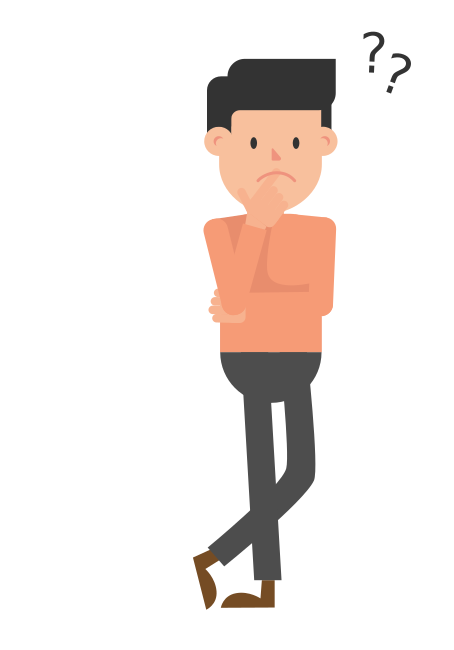
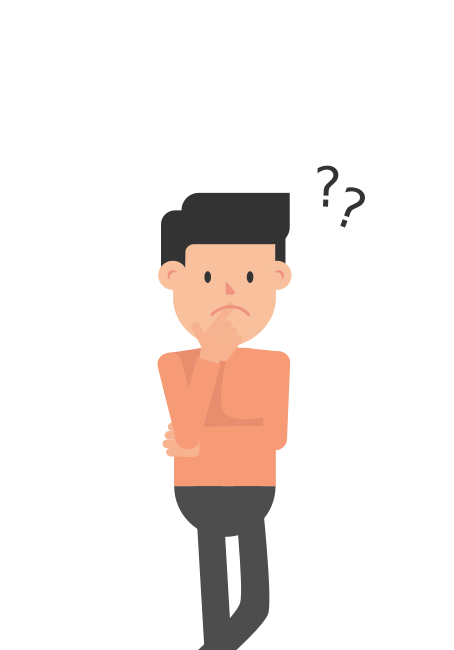
sua login 50%

Changed region(s): [[0.3392, 0.0923, 0.8018, 1.0], [0.8018, 0.0308, 0.9251, 0.1231], [0.8326, 0.1231, 0.8634, 0.1538]]

diff --git a/src/features/Auth/Verification.vue b/src/features/Auth/Verification.vue
@@ -1,6 +1,11 @@
 <template>
   <div class="d-flex align-items-center justify-content-center vh-100">
-    <img src="/img/bg6copy.jpg" class="rounded float-start" alt="..." />
+    <img
+      src="/img/bg6copy.jpg"
+      class="rounded float-start"
+      alt="style"
+      style="width: 50%"
+    />
     <div class="px-5 col-md-6 ml-auto">
       <div class="px-5 col-10 mx-auto mb-4">
         <h2 class="mb-3">Xác thực số điện thoại của bạn</h2>

diff --git a/src/features/Auth/RegisterForm.vue b/src/features/Auth/RegisterForm.vue
@@ -1,6 +1,11 @@
 <template>
   <div class="d-flex align-items-center justify-content-center vh-100">
-    <img src="/img/bg6copy.jpg" class="rounded float-start" alt="..." />
+    <img
+      src="/img/bg6copy.jpg"
+      class="rounded float-start"
+      alt="style"
+      style="width: 50%"
+    />
     <div class="px-5 col-md-6 ml-auto">
       <div class="px-5 col-10 mx-auto">
         <h2 class="text-dark my-0">Xin chào bạn</h2>

diff --git a/src/features/Auth/LoginForm.vue b/src/features/Auth/LoginForm.vue
@@ -1,6 +1,11 @@
 <template>
   <div class="d-flex align-items-center justify-content-center vh-100">
-    <img src="/img/bg6copy.jpg" class="rounded float-start" alt="..." />
+    <img
+      src="/img/bg6copy.jpg"
+      class="rounded float-start"
+      alt="style"
+      style="width: 50%"
+    />
     <div class="px-5 col-md-6 ml-auto">
       <div class="px-5 col-10 mx-auto">
         <h2 class="text-dark my-0">Đăng nhập</h2>

diff --git a/src/features/Auth/ForgotPasswordForm.vue b/src/features/Auth/ForgotPasswordForm.vue
@@ -1,6 +1,11 @@
 <template>
   <div class="d-flex align-items-center justify-content-center vh-100">
-    <img src="/img/bg3.svg.png" class="rounded float-start" alt="..." />
+    <img
+      src="/img/bg3.svg.png"
+      class="rounded float-start"
+      alt="style"
+      style="width: 50%"
+    />
     <div class="px-5 col-md-6 ml-auto">
       <div class="px-5 col-10 mx-auto">
         <h2>Quên mật khẩu?</h2>
